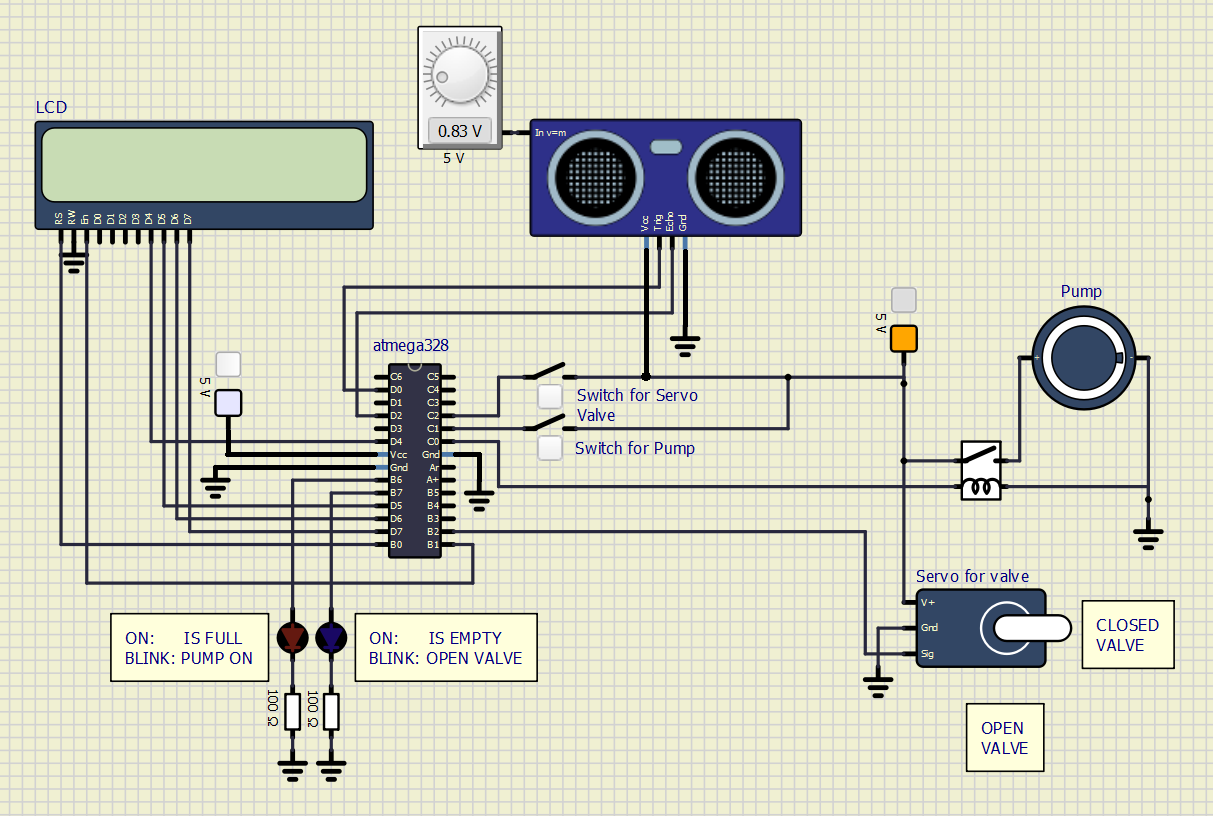
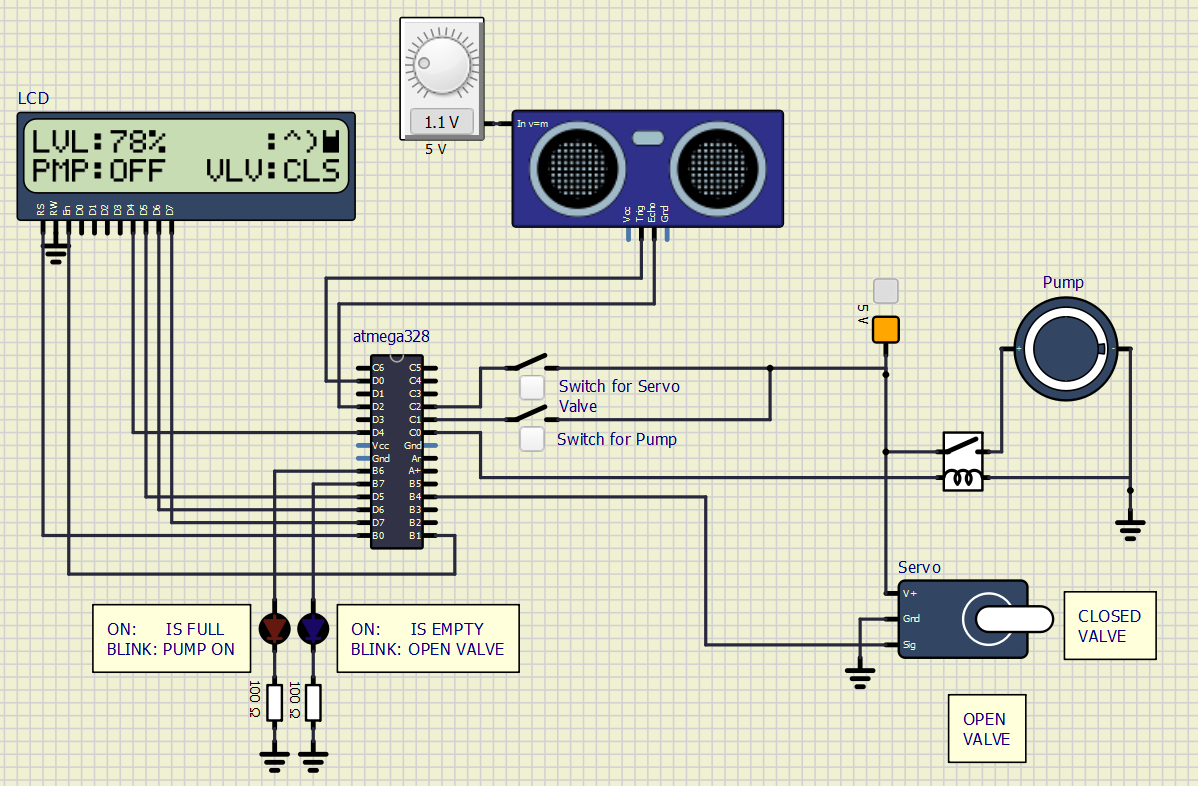
a

Changed region(s): [[0.0, 0.0, 1.0, 1.0]]

diff --git a/README.md b/README.md
@@ -121,8 +121,67 @@ uint16_t customChar[] = {
 
 Tato knihovna byla vytvořena pro ultrazvukový senzor HC-SR04. Obsahuje funkce jako `ultrasonic_init` , která konfiguruje piny a Timer/Counter1 pro použití s HC-SR04. `ultrasonic_trigger` pro vyslání "TRIG" 10 μs impulzu  , `ultrasonic_start_measuring` a `ultrasonic_stop_measuring` pro zaznamenání doby, za jak dlouho se impulz vrátím `ultrasonic_get_distance` pro návratovou hodnotu vzdálenosti.
 
+Ukázka kódu z funkce `ultrasonic_init`
 ```c          
+void ultrasonic_init(volatile uint8_t *trig_reg, uint8_t trig_pin, volatile uint8_t *echo_reg, uint8_t echo_pin)
+{
+    signal_pin = echo_pin;
 
+    // Configure trigger pin Data Direction Register as output
+    *trig_reg |= (1<<trig_pin);
+    // Move pointer to address of Port Register
+    ++trig_reg;
+    // Drive port pin low
+    *trig_reg &= ~(1<<trig_pin);
+
+    // Configure echo signal pin Data Direction Register as input
+    *echo_reg &= ~(1<<signal_pin);
+    // Move pointer to address of Port Register
+    ++echo_reg;
+    // Enable pull-up resistor
+    *echo_reg |= (1<<signal_pin);
+    // Move pointer back to address of Data Direction Register
+    --echo_reg;
+    
+    if (*echo_reg == DDRB) {
+        // Any change on any enabled PCINT[7:0] pin will cause an interrupt
+        PCICR |= (1<<PCIE0);
+        // Enable pin change interrupt on the corresponding I/O pin
+        PCMSK0 |= (1<<signal_pin);
+    }
+    if (*echo_reg == DDRC) {
+        PCICR |= (1<<PCIE1);
+        PCMSK1 |= (1<<signal_pin);
+    }
+    if (*echo_reg == DDRD) {
+        if (signal_pin == PIN_INT1) {
+            // Rising edge on INT1 generates an interrupt request
+            EICRA |= (1<<ISC11) | (1<<ISC10);
+            // Enable External Interrupt Requests
+            EIMSK |= (1<<INT1);
+        }
+        else if (signal_pin == PIN_INT0) {
+            // Rising edge on INT0 generates an interrupt request
+            EICRA |= (1<<ISC01) | (1<<ISC00);
+            // Enable External Interrupt Requests
+            EIMSK |= (1<<INT0);
+        }
+        else {
+            PCICR |= (1<<PCIE2);
+            PCMSK2 |= (1<<signal_pin);
+        }
+    }
+
+    // 340 m/s sound wave propagates by 1 cm in ~58,8235 us
+    // Empirical measurement suggests that 930 clocks of TIM1
+    // with prescaler N=1 takes almost the same amount of time
+    // Set max TIM1 value to this clock number
+    OCR1A = 930;
+    // Enable Timer/Counter1 Output Compare A Match interrupt
+    TIMSK1 |= (1<<OCIE1A);
+    // Enable Timer/Counter1 Clear Timer on Compare Match mode
+    TCCR1B |= (1<<WGM12);
+}
 ```
 
 
@@ -131,7 +190,10 @@ Tato knihovna byla vytvořena pro ultrazvukový senzor HC-SR04. Obsahuje funkce 
 
 ## Main application
 
-Write your text here.
+![main](Images/simulacezapojeni.PNG)
+
+Hlavním účelem této aplikace je automatizace provozu regulace hladiny vody ve vodní nádrži. Hladina vody je snímána pomocí ultrazvukového senzoru, který je připojen k desce Arduino Uno. LCD displej zobrazuje hladinu vody v nádrži pomocí procent a vlastních znaků v prvním řádku displeje. Při určitých stavech se místo procent zobrazují textové informace jako EMPTY, FULL a OVERFLOW. Ve druhém řádku jsou vypsány informace o hardwaru. Jestli je vypouštěcí ventil (VLV) otevřen nebo zavřen a také jestli čerpadlo (PMP) čerpá vodu do nádrže nebo je vypnuto. Aplikace hlída vodní hladinu, při hrozbě přetečení nádrže, dojde k otevření výpustného ventilu pomocí servo-motoru, který přebytečnou vodu odpustí. Ventil lze ovládat i manuálně pomocí přepínače. Čerpadlo je ovládáno manuálně pomocí přepínače a plní nádrž vodou. V případě, že by hrozilo přečerpání a následné přetečení nádrže, aplikace to vyhodnotí a čerpadlo vypne i v případě seplého spínače pro manuální ovládání čerpadla. K arduinu jsou připojeny pomocné indikační LED diody. Červená dioda svítí, když je nádrž plná a bliká když je v provozu čerpadlo. Modrá dioda Svítí v případě prázdné nádrže a bliká, když je otevřený vypouštěcí ventil.
+
 
 <a name="video"></a>
 
